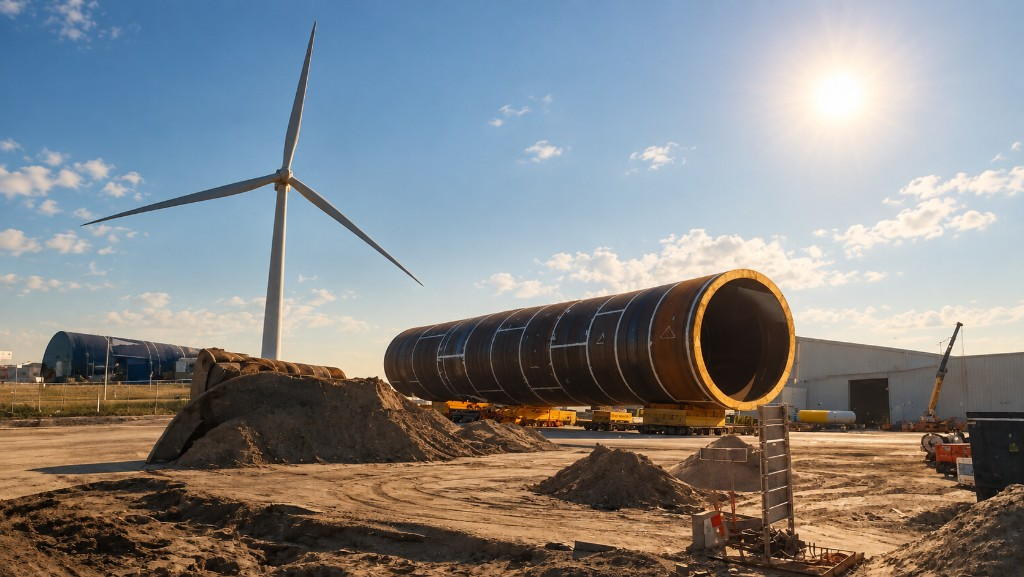
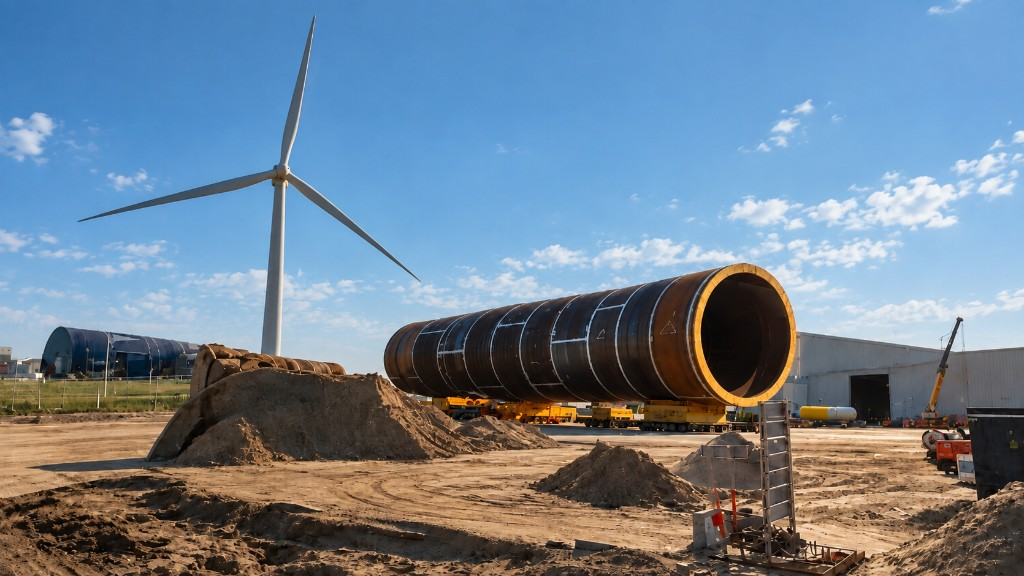
Replace desktop hero background image.

diff --git a/components/hero-section.tsx b/components/hero-section.tsx
@@ -13,7 +13,7 @@ export function HeroSection() {
       <picture>
         <source
           media='(min-width: 1024px)'
-          srcSet='/client/hero-monopile.jpg?v=3'
+          srcSet='/client/hero-monopile.jpg?v=4'
         />
         <img
           src='/client/hero-monopile-mobile.jpg?v=1'
